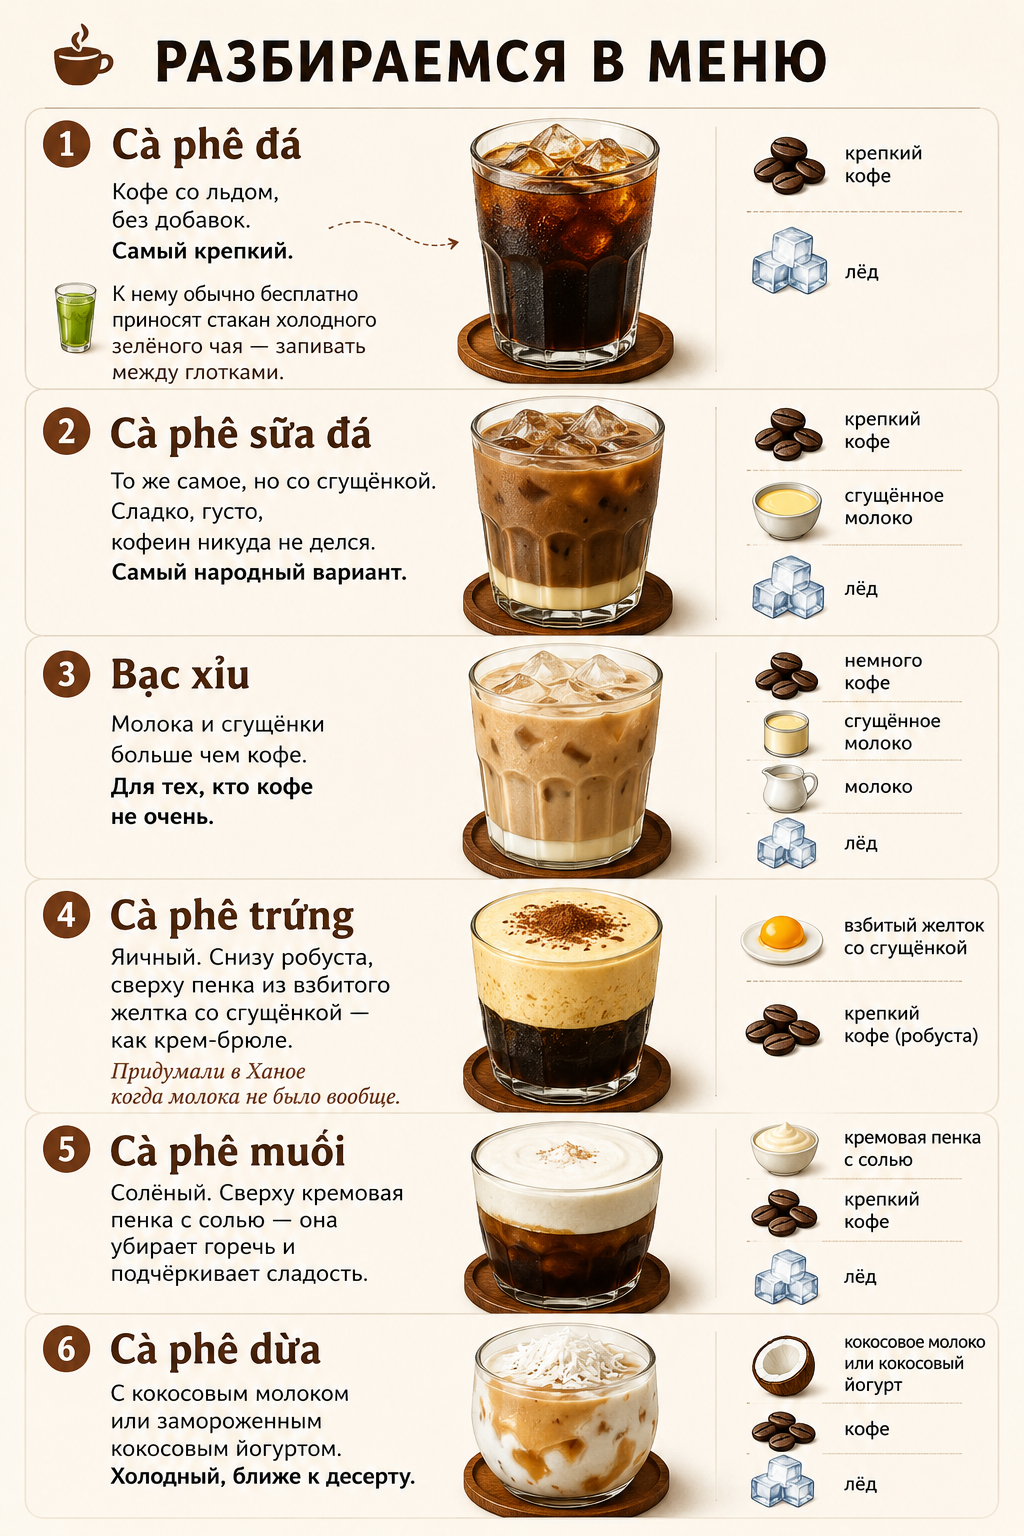
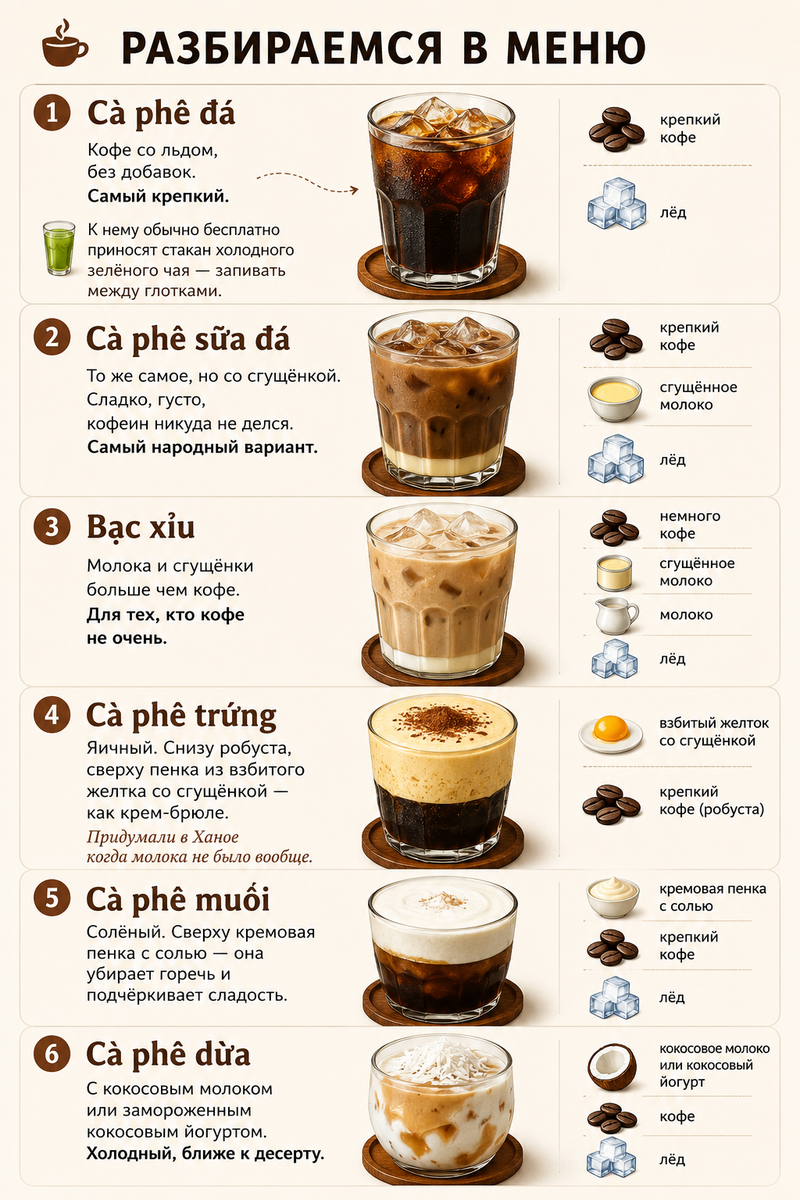
fix: VND markup 3% -> 6%

diff --git a/calc/index.html b/calc/index.html
@@ -72,7 +72,7 @@ async function load(){
     const d=await(await fetch('https://open.er-api.com/v6/latest/USD')).json();
     if(d.result==='success'){
       R={RUB:d.rates.RUB,VND:d.rates.VND};
-      document.getElementById('st').textContent='1 USD = '+Math.round(R.RUB*1.15)+' ₽  ·  1 USD = '+Math.round(R.VND*1.03).toLocaleString('ru-RU')+' ₫';
+      document.getElementById('st').textContent='1 USD = '+Math.round(R.RUB*1.15)+' ₽  ·  1 USD = '+Math.round(R.VND*1.06).toLocaleString('ru-RU')+' ₫';
     }
   }catch(e){
     R={RUB:82.5,VND:25400};
@@ -91,7 +91,7 @@ function toU(v,c){
 function conv(usd,isTour,inputCur){
   if(!R)return null;
   const rubRate=isTour&&inputCur!=='RUB'?R.RUB*1.15:R.RUB;
-  const vndRate=isTour&&inputCur!=='VND'?R.VND*1.03:R.VND;
+  const vndRate=isTour&&inputCur!=='VND'?R.VND*1.06:R.VND;
   return{
     usd:Math.ceil(usd),
     rub:ceil(usd*rubRate,100),
@@ -129,7 +129,7 @@ function upRes(id){
   const p=conv(u,it.type==='tour',it.cur);
   const m=it.type==='tour';
   const rubLbl='RUB'+(m&&it.cur!=='RUB'?' +15%':'');
-  const vndLbl='VND'+(m&&it.cur!=='VND'?' +3%':'');
+  const vndLbl='VND'+(m&&it.cur!=='VND'?' +6%':'');
   b.innerHTML=`
     <div class="rr"><span class="rl">USD</span><span class="rv">${p.usd} $</span></div>
     <div class="rr"><span class="rl">${rubLbl}</span><span class="rv">${fR(p.rub)}</span></div>
